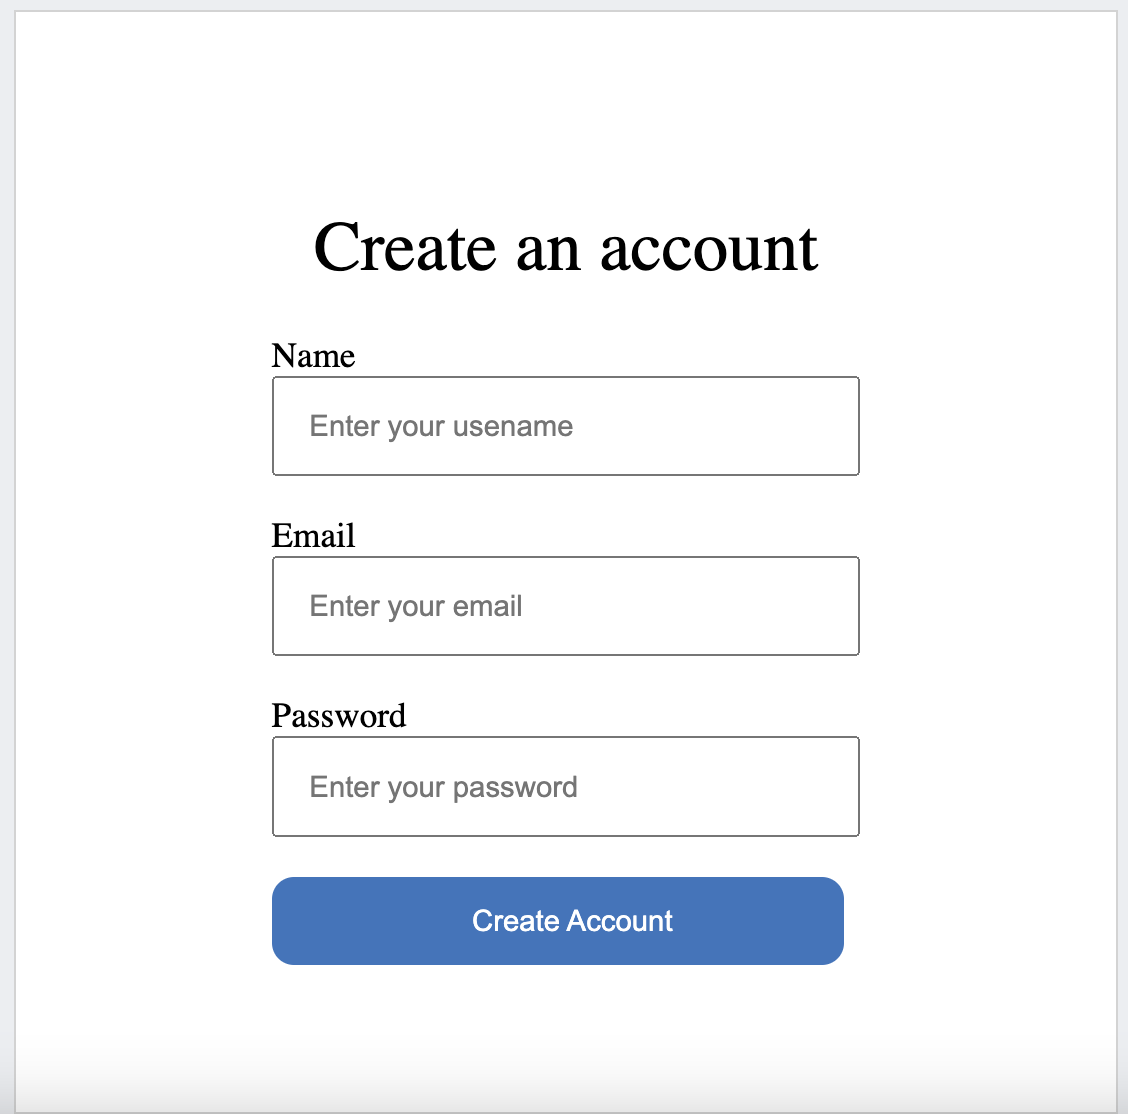
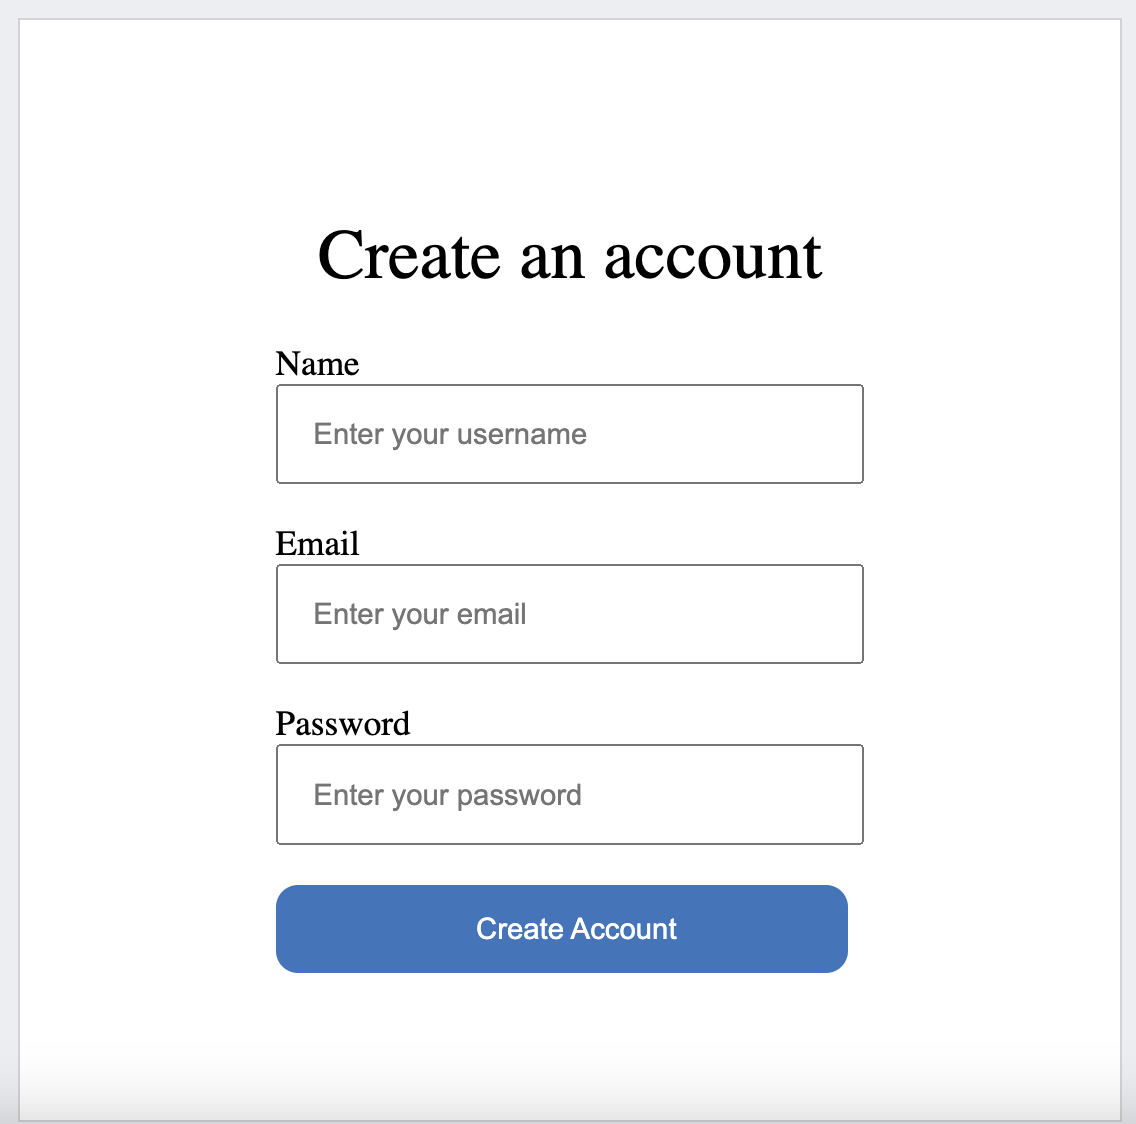
modifed images

diff --git a/html/register page.html b/html/register page.html
@@ -13,7 +13,11 @@
       <form action="register.php" method="post">
         <div>
           Name <br />
-          <input type="text" name="register" placeholder="Enter your usename" />
+          <input
+            type="text"
+            name="register"
+            placeholder="Enter your username"
+          />
         </div>
         <br />
         <div>
